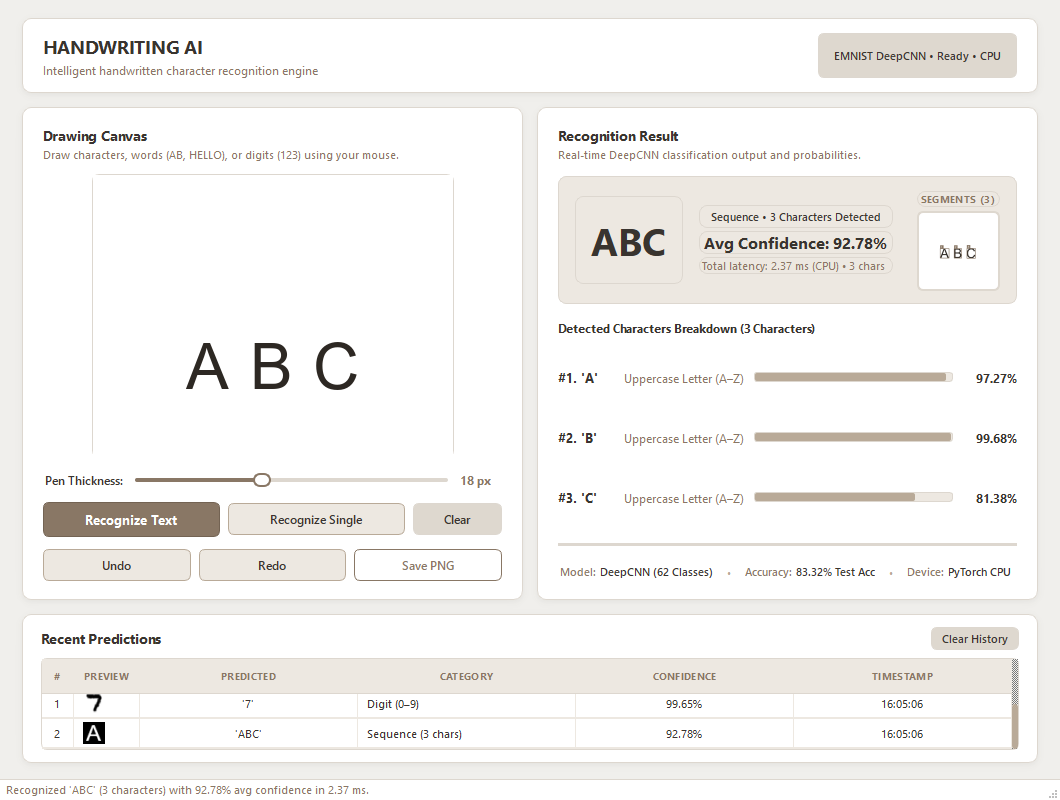
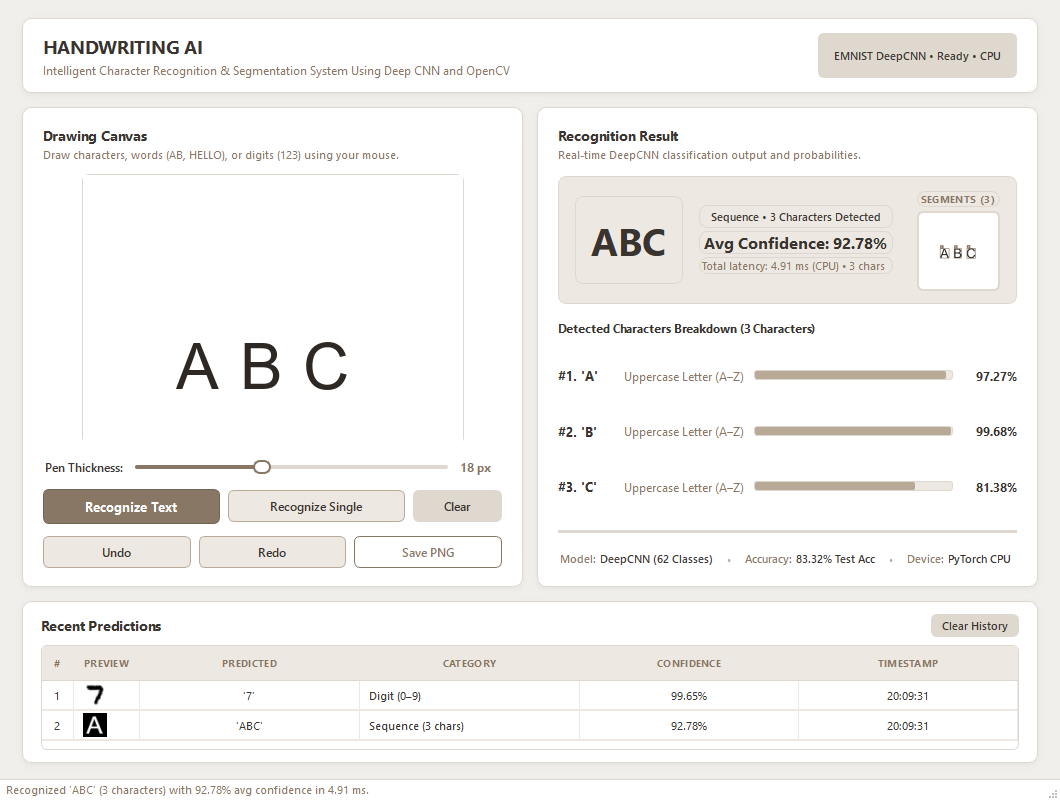
refine: improve canvas sizing, typography contrast, alignment, and history table height

diff --git a/desktop_gui.py b/desktop_gui.py
@@ -49,8 +49,8 @@ class HandwritingAIApp(QMainWindow):
     def __init__(self):
         super().__init__()
         self.setWindowTitle("HANDWRITING AI — Intelligent Character Recognition & Segmentation")
-        self.resize(1060, 810)
-        self.setMinimumSize(990, 750)
+        self.resize(1080, 830)
+        self.setMinimumSize(1020, 770)
 
         # Initialize Model Manager
         self.model_manager = None
@@ -172,7 +172,7 @@ class HandwritingAIApp(QMainWindow):
         hdr_layout.addWidget(instruction)
         layout.addLayout(hdr_layout)
 
-        # Drawing Canvas Box (Centered)
+        # Drawing Canvas Box (Centered with enlarged 380x380 drawing area)
         canvas_center_box = QHBoxLayout()
         canvas_center_box.addStretch()
 
@@ -181,7 +181,7 @@ class HandwritingAIApp(QMainWindow):
         c_layout = QVBoxLayout(self.canvas_container)
         c_layout.setContentsMargins(1, 1, 1, 1)
 
-        self.canvas = DrawingCanvas(self, canvas_size=360)
+        self.canvas = DrawingCanvas(self, canvas_size=380)
         self.canvas.can_undo_changed.connect(self.on_undo_status)
         self.canvas.can_redo_changed.connect(self.on_redo_status)
         c_layout.addWidget(self.canvas)
@@ -441,7 +441,7 @@ class HandwritingAIApp(QMainWindow):
         h_row.addWidget(self.clear_hist_btn)
         layout.addLayout(h_row)
 
-        # Compact History Table (92px height)
+        # Compact History Table (105px height for clean multi-row visibility)
         self.history_table = QTableWidget(0, 6)
         self.history_table.setHorizontalHeaderLabels([
             "#", "Preview", "Predicted", "Category", "Confidence", "Timestamp"
@@ -450,8 +450,8 @@ class HandwritingAIApp(QMainWindow):
         self.history_table.horizontalHeader().setSectionResizeMode(0, QHeaderView.ResizeMode.ResizeToContents)
         self.history_table.horizontalHeader().setSectionResizeMode(1, QHeaderView.ResizeMode.ResizeToContents)
         self.history_table.verticalHeader().setVisible(False)
-        self.history_table.setFixedHeight(92)
-        self.history_table.setIconSize(QSize(22, 22))
+        self.history_table.setFixedHeight(105)
+        self.history_table.setIconSize(QSize(24, 24))
 
         layout.addWidget(self.history_table)
         return card
@@ -750,11 +750,13 @@ class HandwritingAIApp(QMainWindow):
         item_idx.setTextAlignment(Qt.AlignmentFlag.AlignCenter)
         self.history_table.setItem(row_idx, 0, item_idx)
 
-        # Thumbnail
+        # Thumbnail (supports both 28x28 crops and sequence previews)
         if preview_pil is not None:
             img_rgba = preview_pil.convert('RGBA')
-            qimg = QImage(img_rgba.tobytes(), 28, 28, QImage.Format.Format_RGBA8888)
-            icon = QIcon(QPixmap.fromImage(qimg))
+            pw, ph = preview_pil.size
+            qimg = QImage(img_rgba.tobytes(), pw, ph, pw * 4, QImage.Format.Format_RGBA8888)
+            pix = QPixmap.fromImage(qimg).scaled(24, 24, Qt.AspectRatioMode.KeepAspectRatio, Qt.TransformationMode.SmoothTransformation)
+            icon = QIcon(pix)
             thumb_item = QTableWidgetItem(icon, "")
             thumb_item.setTextAlignment(Qt.AlignmentFlag.AlignCenter)
             self.history_table.setItem(row_idx, 1, thumb_item)
